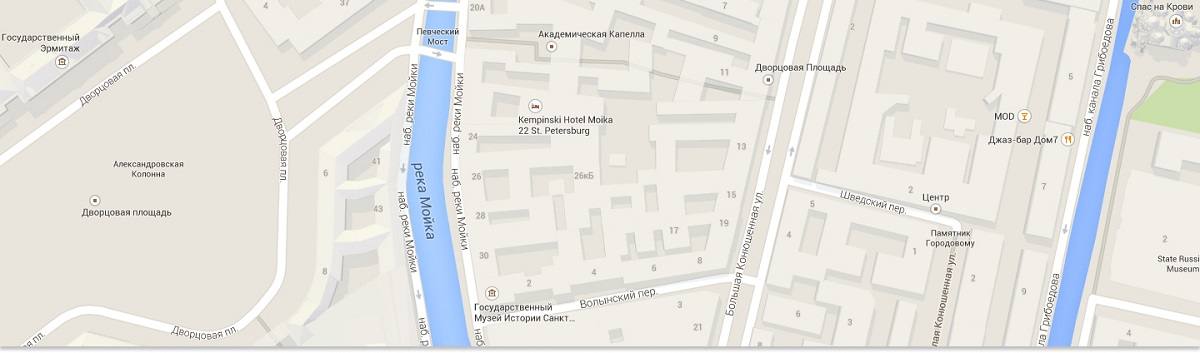
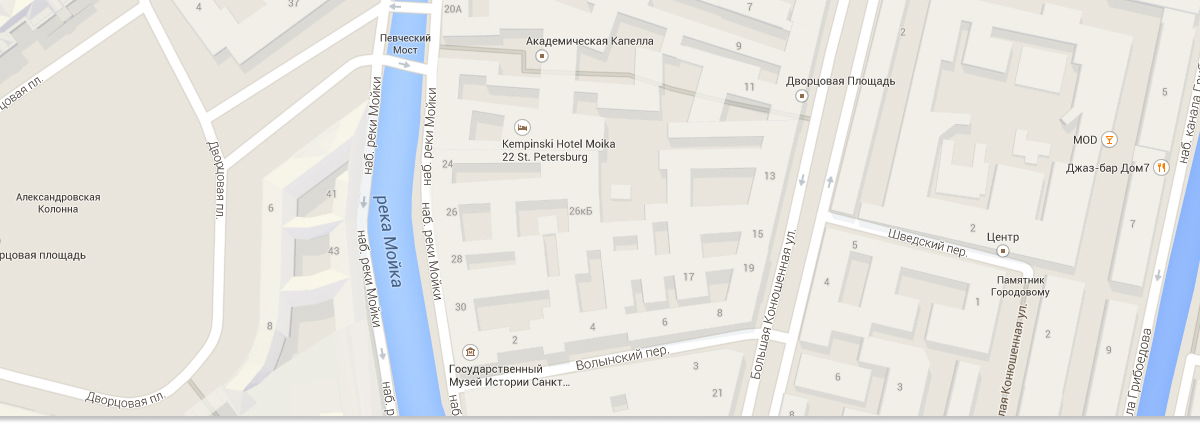
Дополнительные правки.

diff --git a/css/style.css b/css/style.css
@@ -1016,6 +1016,10 @@ img {
   opacity: 1;
 }
 
+.adaptive-item-radio:disabled + label::before {
+  opacity: 0.3;
+}
+
 .adaptive-item-radio:checked + label::after {
   content: "";
   position: absolute;
@@ -1031,6 +1035,10 @@ img {
 
 .adaptive-item-radio:checked + label:hover::after {
   opacity: 1;
+}
+
+.adaptive-item-radio:checked:disabled + label::after {
+  opacity: 0.3;
 }
 
 .content-list {
@@ -1343,8 +1351,8 @@ img {
   padding: 30px 100px;
   max-height: 590px;
   background-color: var(--basic-white);
-  bottom: 190px;
-  left: 280px;
+  bottom: calc(50% - 180px);
+  left: calc(50% - 480px);
   box-shadow: 0px 20px 40px rgba(0, 0, 0, 0.4);
 }
 

diff --git a/catalog.html b/catalog.html
@@ -199,7 +199,7 @@
     <footer class="page-footer main-footer">
       <section class="footer-contacts">
         <h2 class="visually-hidden">Как нас найти</h2>
-        <img class="map" src="img/footer-map-1200.jpg" alt="Карта, как нас найти" width="1440" height="416">
+        <img class="map" src="img/footer-map-1200.jpg" alt="Карта, как нас найти" width="1200" height="416">
         <div class="container">
           <img class="map-marker" src="img/footer-map-marker.png" alt="Маркер - местонахождение на карте" width="231" height="190">
           <div class="contacts-block">

diff --git a/index.html b/index.html
@@ -144,7 +144,7 @@
     <footer class="page-footer main-footer">
       <section class="footer-contacts">
         <h2 class="visually-hidden">Как нас найти</h2>
-        <img class="map" src="img/footer-map-1200.jpg" alt="Карта, как нас найти" width="1440" height="416">
+        <img class="map" src="img/footer-map-1200.jpg" alt="Карта, как нас найти" width="1200" height="416">
         <div class="container">
           <img class="map-marker" src="img/footer-map-marker.png" alt="Маркер - местонахождение на карте" width="231" height="190">
           <div class="contacts-block">
